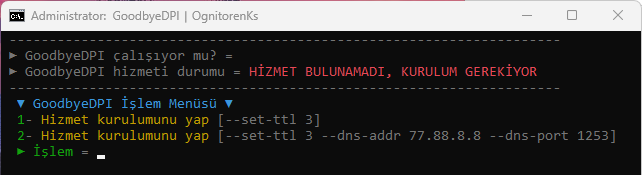
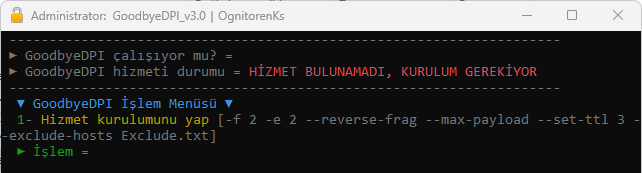
3.0

diff --git a/Release.Notes.md b/Release.Notes.md
@@ -4,8 +4,18 @@
 -   Mail: [email redacted]
 -   Site: [https://ognitorenks.blospot.com](https://ognitorenks.blospot.com)
 
+<details><summary><B> Versiyon 3.0 ► 24.05.2026 </B></summary>
+    
+	• GoodbyeDPI uygulamasına yapımcısı tarafından güncelleme verilmeyince kaynak kodlarını kullanarak yeni ve sorunları çözecek bir güncelleme hazırladım.
+	• GoodbyeDPI varsayılan modunda QUIC/HTTP3 engelleme kapatıldı.
+	    - Neden: Modern tarayıcılar ve uygulamalar QUIC kullanıyor. QUIC’in engellenmesi uygulamalarda gecikmeye sebep olabiliyor.
+	• -f veya -e ile fragmentation kullanıldığında native fragmentation otomatik aktif hale getirildi.
+	    - Neden: Eski window-size fragmentation yöntemi yerine daha hızlı ve uyumlu fragment gönderimi sağlamak için.
+	• --exclude-hosts parametresi eklendi. Exclude.txt içindeki domainlerde fake TTL paketi göndermeyi atlar, ancak fragmentation uygulamaya devam eder.
+	    - Neden: Bazı uygulama/CDN bağlantılarında fake TTL sorun çıkarırken, genel siteler için TTL yöntemi gerekli kalıyor. Bu ayrım domain bazlı yapılır.
+	• Hosts dosyasına bazı eklemeler yapıldı. Roblox ve Discord'da sorun yaşanmaması için.
 
-<details><summary><B> Versiyon 2.0 ► 07.05.2025 </B></summary>
+</details><details><summary><B> Versiyon 2.0 ► 07.05.2025 </B></summary>
 
     • --set-ttl 3 yönteminde birçok kullanıcı sorun yaşıyordu.
     • Çözüm olarak alternatif bir yöntem daha ekledim > --set-ttl 3 --dns-addr 77.88.8.8 --dns-port 1253 --dnsv6-addr 2a02:6b8::feed:0ff --dnsv6-port 1253

diff --git a/README.md b/README.md
@@ -8,12 +8,12 @@
 
 • GoodbyeDPI ile özgür bir internet deneyimi yaşamanız için programın her zaman çalışması gerekiyor. Bundan dolayı uygulamayı indirip kullanmak isterseniz. Silinmeyecek bir konuma almanız gerekmektedir. Ancak bu uygulamayı hizmet olarak yükleyip her açılışta çalışacak şekilde ayarladığımız için çalıştığını yalnızda Görev yöneticisinde göreceksiniz. 1 MB bile bulmayan RAM kullanımı vardır.
 
-• GoodbyeDPI uygulaması benim yaptığım bir uygulama değildir. Ben sadece uygulamanın arayüzlü bir şekilde kurulup, yönetilmesi için batch script ile bir yönetim programı hazırladım. Uygulamanın resmi adresi= https://github.com/ValdikSS/GoodbyeDPI
+• GoodbyeDPI uygulaması benim yaptığım bir uygulama değildir. Ancak yapımcısı uzun süre güncelleme vermediği için oluşan sorunları çözmek için kaynak kodlarıyla çalışır güncel sürümü hazırlamaya çalıştım. Ben sadece uygulamanın arayüzlü bir şekilde kurulup, yönetilmesi için batch script ile bir yönetim programı hazırladım. Uygulamanın resmi adresi= https://github.com/ValdikSS/GoodbyeDPI
 
 ### Kurulum
 Öncelikle programı indirip silinmeyecek bir konuma atınız. Klasör yolunda Türkçe harf ve boşluk olmasın.
 Uygulamayı yönetici olarak çalıştırın.
-Uygulama öncelikle sistemde GoodbyeDPI adında hizmetin kurulu olup olmadığını kontrol edecek. Yüklü değilse kurulum ekranına yönlendirecek. Hizmet olarak kurulum için 1 tuşlayıp, enter tuşuna basın. 1 numaralı işlem işe yaramazsa 2 numaralı işlemi deneyin.
+Uygulama öncelikle sistemde GoodbyeDPI adında hizmetin kurulu olup olmadığını kontrol edecek. Yüklü değilse kurulum ekranına yönlendirecek. Hizmet olarak kurulum için 1 tuşlayıp, enter tuşuna basın.
 ![Repo1](https://raw.githubusercontent.com/OgnitorenKs12/Batch_GoodbyeDPI/main/.github/SS/TR1.png)
 
 DNS adresi seçmenizi isteyecek uygulama içine Claudflare ve Google'ın DNS adreslerini ekledim. Birini seçip tuşladıktan sonra kurulum işleminin bitmesini bekleyin.